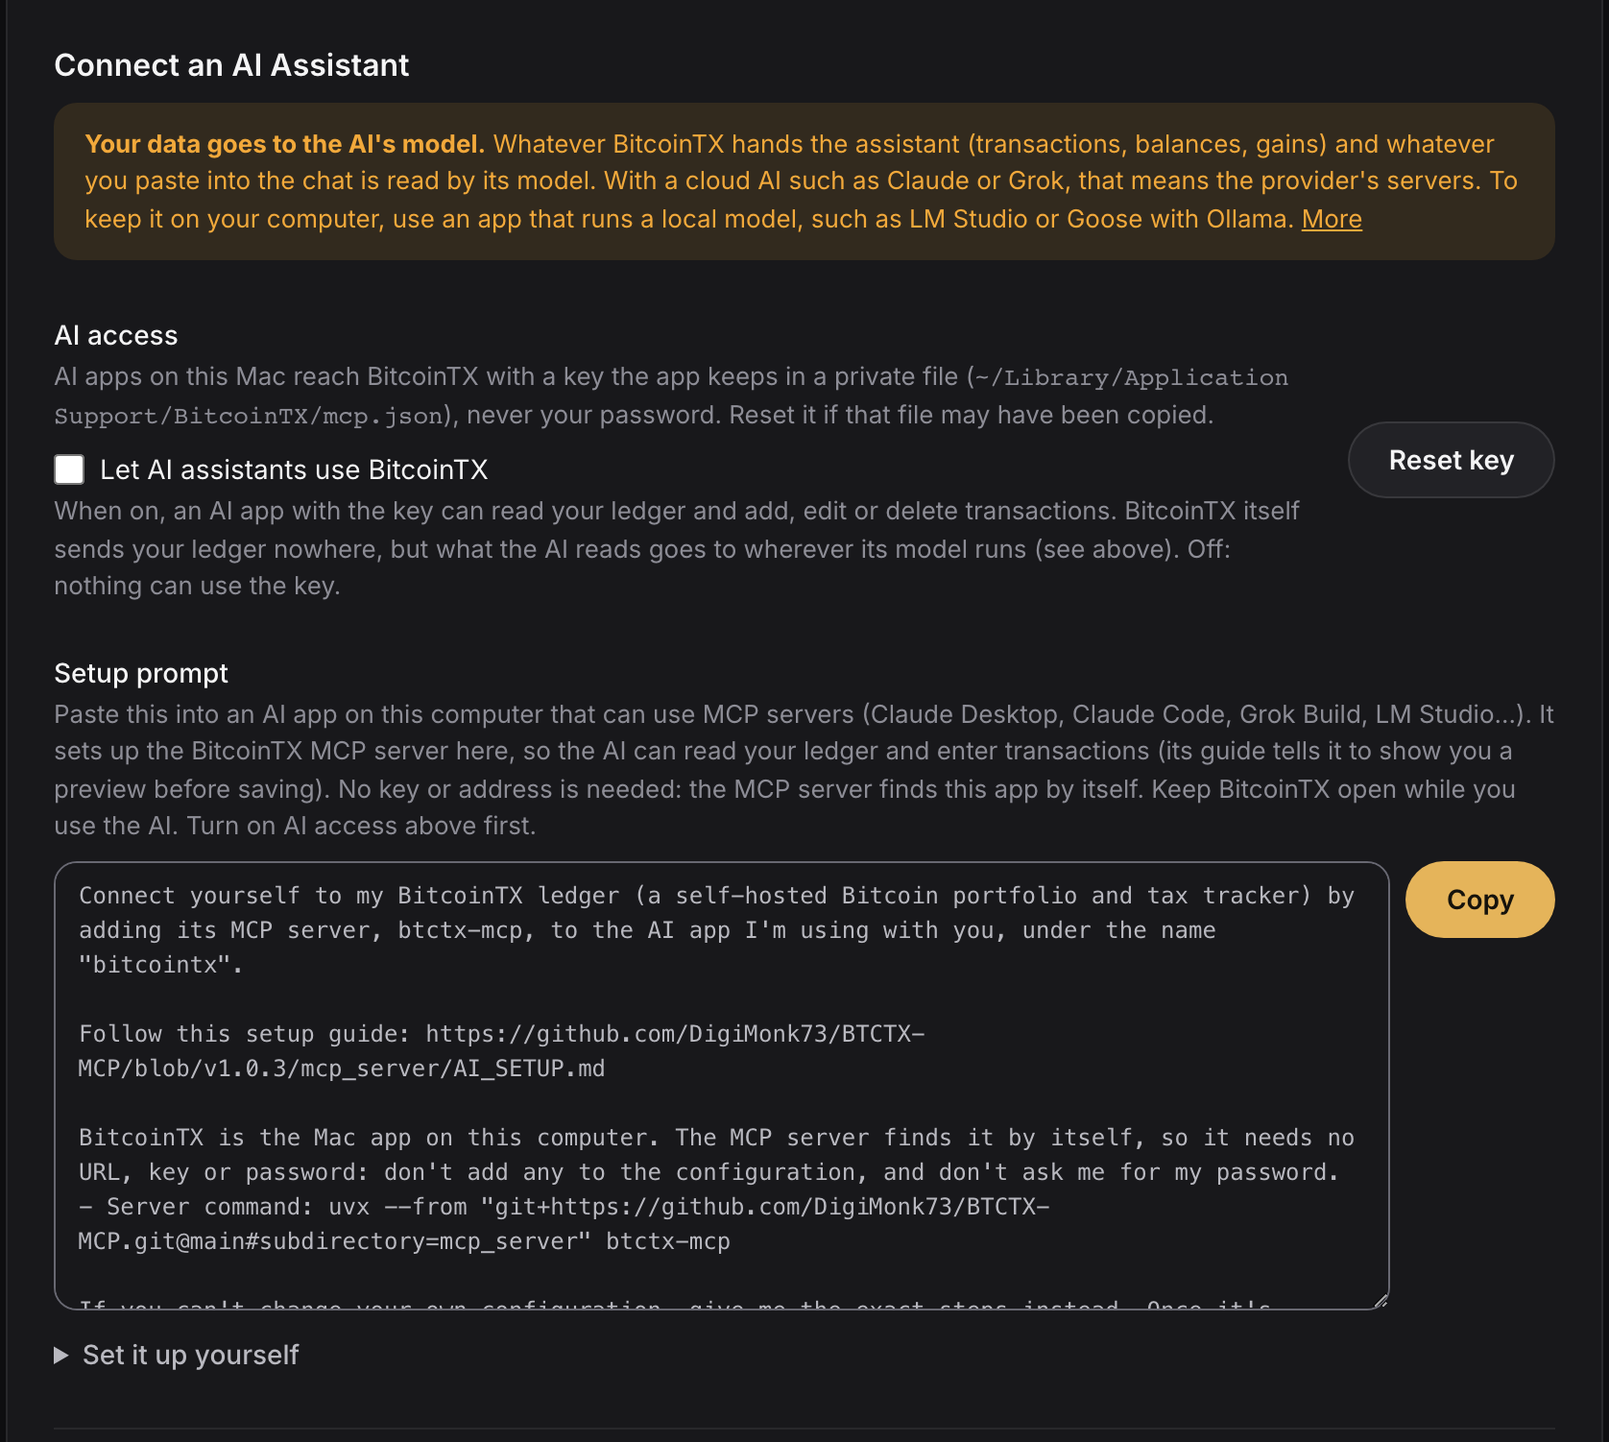
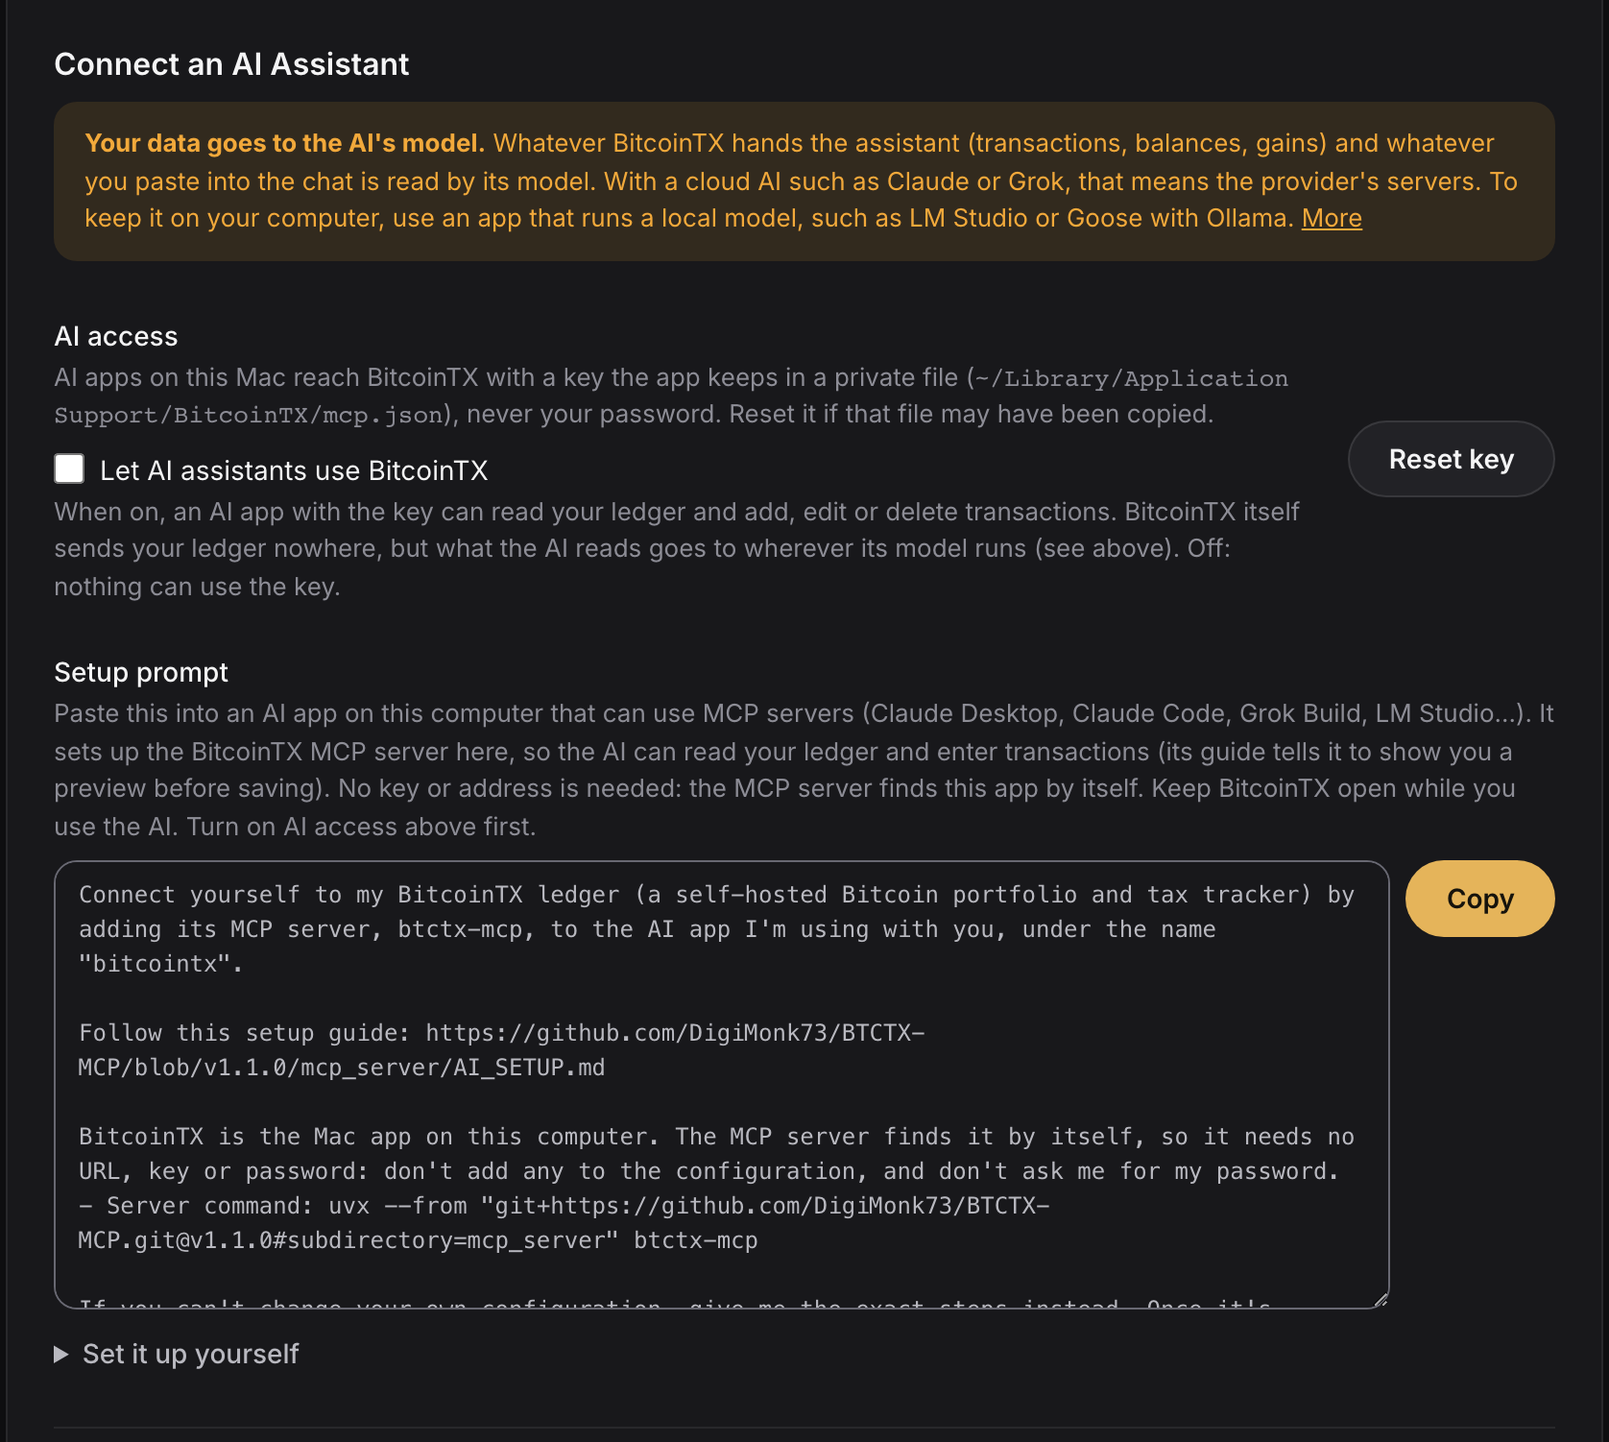
Release v1.1.0: choose your price source, no dates in lookups, security tightening
- VERSION, desktop/BitcoinTX.spec, StartOS image tag, versions/current.ts
  (1.1.0:0; release notes in five languages ending with a changelog link)
  and mcp_server/pyproject.toml at 1.1.0.
- CHANGELOG: Unreleased -> [v1.1.0] - 2026-09-27, with the StartOS note
  about https mempool addresses (turn on the fallback for now).
- StartOS instructions say the same; README Settings screenshot retaken.
- docs/V1_2_0_PLAN.md: the approved plan for release 2 (StartOS
  integration, translations, Start9's workflows, sync), temporary, to be
  deleted in the v1.2.0 release commit.

diff --git a/startos/startos/versions/current.ts b/startos/startos/versions/current.ts
@@ -1,13 +1,16 @@
 import { IMPOSSIBLE, VersionInfo } from '@start9labs/start-sdk'
 
+const CHANGELOG =
+  'https://github.com/DigiMonk73/BTCTX-MCP/blob/main/docs/CHANGELOG.md'
+
 export const current = VersionInfo.of({
-  version: '1.0.3:0',
+  version: '1.1.0:0',
   releaseNotes: {
-    en_US: `BitcoinTX 1.0.3: AI assistants now use an AI key instead of your password. In BitcoinTX, Settings > Connect an AI Assistant, turn on AI access and create a key (it is shown once), then paste it into your AI app's settings. The key can read your ledger, add or change entries and make a backup; it can't log in, change your password, restore or delete everything, and you can revoke it there. The Connect an AI Assistant action no longer shows your login, and the AI connector now updates itself when your AI app restarts. If you already use an AI app with BitcoinTX: in its settings, replace BTCTX_USERNAME and BTCTX_PASSWORD with BTCTX_AI_KEY, then run Reset Login Credentials (or change your password in BitcoinTX), because the old one sat in that file.`,
-    es_ES: `BitcoinTX 1.0.3: los asistentes de IA usan ahora una clave de IA en lugar de tu contraseña. En BitcoinTX, en Settings > Connect an AI Assistant, activa el acceso de IA y crea una clave (se muestra una sola vez); después pégala en la configuración de tu aplicación de IA. La clave puede leer tu libro contable, añadir o cambiar registros y hacer una copia de seguridad; no puede iniciar sesión, cambiar tu contraseña, restaurar ni borrarlo todo, y puedes revocarla allí mismo. La acción Connect an AI Assistant ya no muestra tus credenciales, y el conector de IA se actualiza solo cuando reinicias tu aplicación de IA. Si ya usas una aplicación de IA con BitcoinTX: en su configuración, sustituye BTCTX_USERNAME y BTCTX_PASSWORD por BTCTX_AI_KEY y después ejecuta Reset Login Credentials (o cambia tu contraseña en BitcoinTX), porque la anterior estaba guardada en ese archivo.`,
-    de_DE: `BitcoinTX 1.0.3: KI-Assistenten verwenden jetzt einen KI-Schlüssel statt deines Passworts. Schalte in BitcoinTX unter Settings > Connect an AI Assistant den KI-Zugriff ein und erstelle einen Schlüssel (er wird nur einmal angezeigt); füge ihn dann in die Einstellungen deiner KI-App ein. Der Schlüssel kann dein Journal lesen, Einträge hinzufügen oder ändern und eine Sicherung anlegen; er kann sich nicht anmelden, dein Passwort nicht ändern, nichts wiederherstellen und nicht alles löschen, und du kannst ihn dort widerrufen. Die Aktion Connect an AI Assistant zeigt deine Zugangsdaten nicht mehr an, und der KI-Connector aktualisiert sich beim Neustart deiner KI-App selbst. Wenn du BitcoinTX schon mit einer KI-App nutzt: Ersetze in deren Einstellungen BTCTX_USERNAME und BTCTX_PASSWORD durch BTCTX_AI_KEY und führe dann Reset Login Credentials aus (oder ändere dein Passwort in BitcoinTX), denn das alte stand in dieser Datei.`,
-    pl_PL: `BitcoinTX 1.0.3: asystenci AI używają teraz klucza AI zamiast Twojego hasła. W BitcoinTX, w Settings > Connect an AI Assistant, włącz dostęp AI i utwórz klucz (jest pokazywany tylko raz), a potem wklej go do ustawień swojej aplikacji AI. Klucz może odczytywać Twoją księgę, dodawać lub zmieniać wpisy i tworzyć kopię zapasową; nie może się logować, zmieniać hasła, przywracać kopii ani usuwać wszystkiego, a możesz go tam unieważnić. Akcja Connect an AI Assistant nie pokazuje już Twoich danych logowania, a konektor AI aktualizuje się sam po ponownym uruchomieniu aplikacji AI. Jeśli już używasz aplikacji AI z BitcoinTX: w jej ustawieniach zastąp BTCTX_USERNAME i BTCTX_PASSWORD przez BTCTX_AI_KEY, a następnie uruchom Reset Login Credentials (albo zmień hasło w BitcoinTX), bo stare było zapisane w tym pliku.`,
-    fr_FR: `BitcoinTX 1.0.3 : les assistants IA utilisent désormais une clé IA au lieu de votre mot de passe. Dans BitcoinTX, sous Settings > Connect an AI Assistant, activez l’accès IA et créez une clé (affichée une seule fois), puis collez-la dans les réglages de votre application d’IA. La clé peut lire votre registre, ajouter ou modifier des écritures et faire une sauvegarde ; elle ne peut pas se connecter, changer votre mot de passe, restaurer ni tout supprimer, et vous pouvez la révoquer au même endroit. L’action Connect an AI Assistant n’affiche plus vos identifiants, et le connecteur IA se met à jour tout seul au redémarrage de votre application d’IA. Si vous utilisez déjà une application d’IA avec BitcoinTX : dans ses réglages, remplacez BTCTX_USERNAME et BTCTX_PASSWORD par BTCTX_AI_KEY, puis lancez Reset Login Credentials (ou changez votre mot de passe dans BitcoinTX), car l’ancien se trouvait dans ce fichier.`,
+    en_US: `BitcoinTX 1.1.0: you choose where Bitcoin prices come from, and nothing is contacted until you do. Right after logging in, pick My mempool server, Public price sites or Off (Settings > Privacy & Network). Your own mempool now also gives past prices, and public sites are asked only if you turn on the fallback. Past-price lookups no longer reveal your transaction dates. Reports can no longer be made to fetch outside addresses, logins are rate-limited, and new passwords need 12 characters. A mempool address starting with https (such as the .local ones) doesn't work yet: for now, turn on Fall back to public price sites. Everything: ${CHANGELOG}`,
+    es_ES: `BitcoinTX 1.1.0: tú eliges de dónde vienen los precios de bitcoin, y no se contacta nada hasta que lo hagas. Justo después de iniciar sesión, elige My mempool server, Public price sites u Off (Settings > Privacy & Network). Tu propio mempool ahora también da precios pasados, y los sitios públicos solo se consultan si activas la alternativa (fallback). Las consultas de precios pasados ya no revelan las fechas de tus transacciones. Los informes ya no pueden hacer que se contacten direcciones externas, los inicios de sesión tienen un límite de intentos y las contraseñas nuevas necesitan 12 caracteres. Una dirección de mempool que empieza por https (como las .local) todavía no funciona: por ahora, activa Fall back to public price sites. Todo: ${CHANGELOG}`,
+    de_DE: `BitcoinTX 1.1.0: Du wählst, woher die Bitcoin-Kurse kommen, und bis dahin wird nichts kontaktiert. Wähle direkt nach der Anmeldung My mempool server, Public price sites oder Off (Settings > Privacy & Network). Dein eigener mempool liefert jetzt auch vergangene Kurse, und öffentliche Seiten werden nur gefragt, wenn du den Fallback einschaltest. Abfragen vergangener Kurse verraten keine Transaktionsdaten mehr. Berichte können keine externen Adressen mehr abrufen lassen, Anmeldeversuche werden gebremst, und neue Passwörter brauchen 12 Zeichen. Eine mempool-Adresse mit https (wie die .local-Adressen) funktioniert noch nicht: Schalte vorerst Fall back to public price sites ein. Alles: ${CHANGELOG}`,
+    pl_PL: `BitcoinTX 1.1.0: sam wybierasz, skąd pochodzą ceny bitcoina, a do tego czasu nic nie jest kontaktowane. Zaraz po zalogowaniu wybierz My mempool server, Public price sites albo Off (Settings > Privacy & Network). Twój własny mempool podaje teraz też ceny historyczne, a strony publiczne są pytane tylko wtedy, gdy włączysz fallback. Zapytania o ceny historyczne nie ujawniają już dat Twoich transakcji. Raporty nie mogą już pobierać zewnętrznych adresów, próby logowania są ograniczane, a nowe hasła muszą mieć 12 znaków. Adres mempool zaczynający się od https (np. adresy .local) jeszcze nie działa: na razie włącz Fall back to public price sites. Wszystko: ${CHANGELOG}`,
+    fr_FR: `BitcoinTX 1.1.0 : vous choisissez d’où viennent les prix du bitcoin, et rien n’est contacté avant votre choix. Juste après la connexion, choisissez My mempool server, Public price sites ou Off (Settings > Privacy & Network). Votre propre mempool fournit désormais aussi les prix passés, et les sites publics ne sont interrogés que si vous activez le repli (fallback). Les recherches de prix passés ne révèlent plus les dates de vos transactions. Les rapports ne peuvent plus faire contacter d’adresses extérieures, les connexions sont limitées et les nouveaux mots de passe demandent 12 caractères. Une adresse mempool en https (comme les adresses .local) ne fonctionne pas encore : activez pour l’instant Fall back to public price sites. Tout : ${CHANGELOG}`,
   },
   migrations: {
     up: async () => {},

diff --git a/startos/startos/manifest/index.ts b/startos/startos/manifest/index.ts
@@ -18,7 +18,7 @@ export const manifest = setupManifest({
       source: {
         // Must be v<VERSION> of the repository root (checked by
         // backend/tests/test_versions_agree.py); published by image.yml.
-        dockerTag: 'ghcr.io/digimonk73/btctx-mcp:v1.0.3',
+        dockerTag: 'ghcr.io/digimonk73/btctx-mcp:v1.1.0',
       },
       arch: ['x86_64', 'aarch64'],
     },

diff --git a/docs/V1_2_0_PLAN.md b/docs/V1_2_0_PLAN.md
@@ -1,0 +1,133 @@
+# v1.2.0 plan: StartOS integration, translations, Start9 CI, then submit
+
+> **Temporary file. Delete it in the v1.2.0 release commit** (and the memory
+> that points here). A working plan, not documentation: once v1.2.0 ships,
+> the CHANGELOG, READMEs and code are the record.
+
+Written 2026-09-27, after v1.1.0 (price source setting, date-free price
+history, PDF fix, security tightening, connector pinned). Approved by the
+owner as release 2 of a two-release plan to ready BitcoinTX for Start9's
+community marketplace. The owner's own use comes first; contributing to the
+community is the bonus. Work on `develop` (CLAUDE.md "Branches").
+
+Start a session with:
+
+> Read `docs/V1_2_0_PLAN.md` and `CLAUDE.md`. Implement the plan, and stop
+> if anything in the code contradicts it.
+
+## 0. Open question for the owner (ask first)
+
+The owner connected their mempool on StartOS with **a `.local` address with
+the port on the end** and it "worked" in 1.0.3. Likely it was `https://…
+.local:PORT`, which BitcoinTX can't verify (its outbound client doesn't trust
+the StartOS root CA; `outbound.own_node_client` uses the default CA bundle),
+and 1.0.3 then quietly fell back to public sites. 1.1.0 no longer falls back
+unless "Fall back to public price sites" is on (the StartOS instructions say
+to turn it on for an https address for now). **Ask the owner for the exact
+format of every address type** StartOS shows for mempool (LAN `.local`, IP,
+Tor, bridge, http vs https, ports) and whether BitcoinTX's log shows
+"Own mempool server … failed". Item 1 below makes this moot on StartOS, but
+the answer decides whether a CA option is also worth adding for other setups.
+
+## 1. Mempool and Tor from StartOS (no forced dependency)
+
+Research (2026-09-27, start-sdk 2.0.9; sources in the session that wrote
+this): service-to-service calls use `sdk.host.getBridgeAddress(effects,
+{packageId, hostId, internalPort, ssl?}).const()` → `10.0.3.1:<assigned
+port>`, plain http, null while the package is absent (heals on restart).
+Never hardcode ports or use `<id>.startos` names.
+- mempool-startos (`Start9Labs/mempool-startos`, mempool v3.3.1): host
+  `main`, internal port 8080, http; nginx forwards `/api/v1/*`. Historical
+  prices are on by default (indexing on). Precedent for calling it:
+  am-i-exposed-startos `main.ts` (ssl:false, waits for its `webui` health).
+- Tor (`tor-startos`): a SOCKS5 proxy for other services, host `socks`,
+  port 9050, bridge-only. mempool-startos has a "Route External Requests
+  Over Tor" toggle. Use `fallbackPort: 9050` so the proxy stays set when Tor
+  is gone (fails closed, like am-i-exposed).
+- Optional dependencies: manifest `dependencies: { mempool: { description,
+  optional: true, metadata: { title, icon } } }` (description is a locale
+  object); `dependencies.ts` returns a dependency **only when the user chose
+  it** (mempool `dependencies.ts` pattern). Nothing is forced on others.
+- StartOS also has a built-in per-service **Set Outbound Gateway** (VPN) —
+  document it, nothing to build.
+
+Build:
+- **App:** env overrides `BTCTX_PRICE_SOURCE`, `BTCTX_MEMPOOL_URL`,
+  `BTCTX_MEMPOOL_FALLBACK`, `BTCTX_PROXY_URL` read in `outbound.load()`;
+  when set, `GET /api/settings/network` says `managed: true` and Settings /
+  the first-login question show them read-only ("set in StartOS: use the
+  Price source action"). Tests for precedence.
+- **Package** (`startos/startos/`): `store.json` gains `priceSource`
+  (`unset|off|public|mempool`), `mempoolFallback`, `useTor`; a new action
+  **Price source & privacy** (`sdk.Action.withInput`, `InputSpec`: select
+  Off / Public price sites / My Mempool on this server; toggle fallback;
+  toggle Tor), prefilled from store.json; an `important` task created on
+  install pointing to it (after Show Credentials); `dependencies.ts` adds
+  `mempool` (`kind: 'running'`, healthChecks `['webui']`) / `tor` only when
+  chosen; `main.ts` resolves the bridge addresses with `.const()` and passes
+  `BTCTX_*` in `appEnv`. Pass i18n params as strings (2.0.9 throws on numbers).
+- **Old default logins:** an update init that finds the StartOS install
+  still on admin/password (installs from before generated passwords) runs a
+  new CLI `set-password --if-default` with a generated password and raises
+  the critical Show Credentials task (1.1.0 made that login need the setup
+  code from the service log).
+
+## 2. Translations
+
+Fill `startos/startos/i18n/dictionaries/translations.ts` for es_ES, de_DE,
+pl_PL, fr_FR: every package string (action names/descriptions/messages,
+health, interfaces, tasks). Start9's intake review translated all strings
+for other packages; "localization" is a review criterion. The app itself
+stays English / US tax forms (the listing says so).
+
+## 3. Start9's standard workflows (in the mirror)
+
+Replace `startos/.github/workflows/{ci,release}.yml` with Start9's four thin
+callers from `Start9Labs/hello-world-startos`, pointed at `main`:
+`build.yml` (PR → `start-technologies/.github/workflows/build.yml@master`),
+`tagAndRelease.yml` (push to main, ignores `*.md`; needs variable
+`REFERENCE_REGISTRY` and secret `DEV_KEY`), `release.yml` (tag `v*.*`),
+`syncNext.yml`. They run in DigiMonk73/BTCTX-StartOS (package at repo root).
+Owner's manual step: add `DEV_KEY` (the same key as BTCTX-MCP's secret) and
+`REFERENCE_REGISTRY` in the mirror's GitHub settings (look up the value in
+the template docs when implementing). Our main-repo `release.yml` keeps
+building dmg/zip/s9pk and syncing the mirror.
+
+## 4. Staying in sync with Start9
+
+Submission: email submissions@start9.com with the mirror link. Start9 forks
+it into Start9-Community and reviews it as a PR on the fork; "the fork is the
+upstream from that point on". Authors then contribute by PRs from their own
+fork; Start9 merges them (hours to a day). Start9 changes templates about
+monthly (`syncNext`) and bumps SDKs by PRs on forks.
+- New `scripts/start9-pull.sh`: fetch Start9-Community's `main`, show the
+  diff against `startos/`, apply it on `develop` (so our next mirror sync
+  never undoes their changes).
+- Release flow after the fork: release here → sync the mirror → open a PR
+  from the mirror to their fork. Document in `startos/UPDATING.md` (plus
+  Start9's two required sections "Determining the upstream version" and
+  "Applying the bump") and CLAUDE.md "Releasing".
+
+## 5. StartOS docs polish
+
+- `instructions.md`: link a StartOS-relevant guide (the main README's
+  first-login section describes Docker); Privacy section mentions the new
+  action, own mempool, Tor, Set Outbound Gateway; remove the https note
+  once item 1 lands.
+- Move the one-time "switch from password" notes (instructions.md, the
+  Connect an AI action message) into release notes only; release notes end
+  with a changelog link; rename version files to `v0.8.0_0.ts` /
+  `v0.9.0_0.ts` (exports `v_0_8_0_0`, `v_0_9_0_0`); README "Limitations"
+  opens with a sentence; `startos/LICENSE` copyright line = the upstream's.
+
+## 6. Verify, release, submit
+
+- Tests for everything above; `make check`, `make e2e`, StartOS checks.
+- Owner tests on the box: fresh install (Show Credentials, then the price
+  task), My Mempool (confirm in the log that the bridge address answers and
+  no public site is asked), Tor, fallback, backup + restore, update from
+  1.1.0, uninstall + reinstall.
+- Release v1.2.0 (CLAUDE.md "Releasing"), landing page, then the owner
+  emails Start9. PyPI for the connector when the owner has 2FA set up
+  (trusted publisher `btctx-mcp` / DigiMonk73 / BTCTX-MCP / `release.yml` /
+  env `pypi`), configs then use `uvx btctx-mcp==X.Y.Z`.

diff --git a/startos/instructions.md b/startos/instructions.md
@@ -32,7 +32,7 @@ Record deposits, withdrawals, transfers, buys and sells. Every change recalculat
 
 BitcoinTX sends your ledger nowhere, and it contacts nothing until you choose a price source.
 
-- **Your own mempool** (best): the live price, block height and past prices come from it, and no public site is contacted. Its past prices start from when it was installed; for older days, turn on **Fall back to public price sites** or type the value in.
+- **Your own mempool** (best): the live price, block height and past prices come from it, and no public site is contacted. Its past prices start from when it was installed; for older days, turn on **Fall back to public price sites** or type the value in. BitcoinTX can't check StartOS's own certificate yet, so a mempool address starting with `https` (such as the `.local` ones) doesn't answer it: for now, turn on **Fall back to public price sites** with such an address, and BitcoinTX's log says when it used them.
 - **Public price sites**: the sites see your server's IP address but never one of your transaction dates, because past prices come from one download of the whole history that is the same for every install. To hide the IP address, send BitcoinTX's traffic through a VPN with the StartOS **Set Outbound Gateway** action.
 - **Off**: nothing is contacted; you type in USD values yourself.
 

diff --git a/docs/CHANGELOG.md b/docs/CHANGELOG.md
@@ -4,6 +4,8 @@ All notable changes to BitcoinTX are documented in this file.
 
 ## [Unreleased]
 
+## [v1.1.0] - 2026-09-27 - Privacy: choose your price source, no dates in lookups; security tightening
+
 ### Privacy: you choose where prices come from, and no lookup reveals a date
 - **Nothing is contacted until you choose.** A fresh install asks, right
   after the first login, where Bitcoin prices come from: **My mempool
@@ -27,6 +29,11 @@ All notable changes to BitcoinTX are documented in this file.
   and the sidebar converter doesn't ask while its tab is hidden.
 - **Correction:** the 1.0.3 README, StartOS docs and website said that
   download kept lookups from pointing at your dates; it didn't, as above.
+- **StartOS:** a mempool address starting with `https` (the `.local` ones)
+  doesn't answer BitcoinTX yet (it can't check StartOS's own certificate);
+  1.0.3 then quietly used the public sites. Turn on **Fall back to public
+  price sites** with such an address for now; a direct connection inside
+  StartOS comes next.
 
 ### Security
 - **PDF reports can't be made to fetch anything.** Text stored in a
